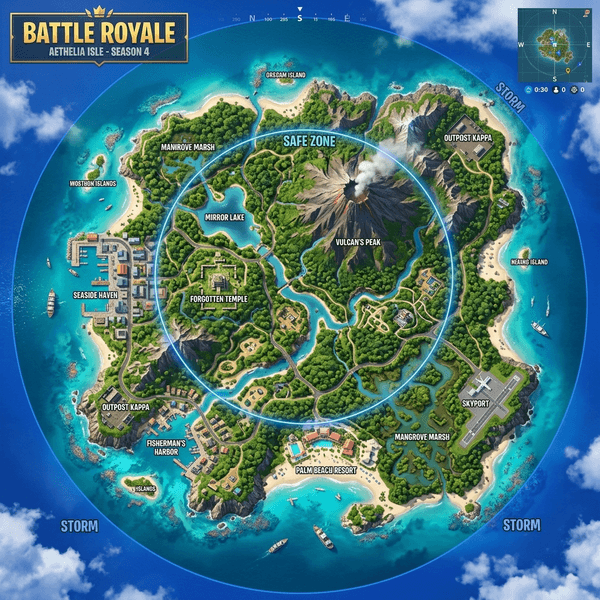
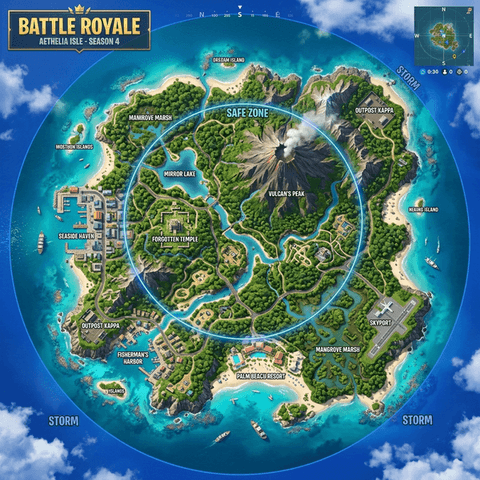
perf: Eliminate render-blocking Google Font import via next/font/google, add preconnect hints, and prioritize LCP image loading

diff --git a/src/app/globals.css b/src/app/globals.css
@@ -1,5 +1,3 @@
-@import url('https://fonts.googleapis.com/css2?family=Anton&display=swap');
-
 :root {
   --bg-cream: #FDFBF7;
   --bg-white: #FFFFFF;
@@ -237,7 +235,7 @@ body {
 }
 
 .font-anton { 
-  font-family: 'Anton', sans-serif; 
+  font-family: var(--font-anton), 'Anton', sans-serif; 
 }
 
 .home-wrapper {
@@ -277,7 +275,7 @@ body {
 }
 
 .hero-play {
-  font-family: 'Anton', sans-serif;
+  font-family: var(--font-anton), 'Anton', sans-serif;
   font-size: clamp(3rem, 5vw, 5.5rem);
   line-height: 0.9;
   color: #111111;
@@ -285,7 +283,7 @@ body {
 }
 
 .hero-compete {
-  font-family: 'Anton', sans-serif;
+  font-family: var(--font-anton), 'Anton', sans-serif;
   font-size: clamp(2.8rem, 4.5vw, 5rem);
   line-height: 0.9;
   color: #ff6a00;
@@ -293,7 +291,7 @@ body {
 }
 
 .hero-win {
-  font-family: 'Anton', sans-serif;
+  font-family: var(--font-anton), 'Anton', sans-serif;
   font-size: clamp(3rem, 5vw, 5.5rem);
   line-height: 0.9;
   color: #111111;
@@ -629,7 +627,7 @@ body {
 }
 
 .organizer-title {
-  font-family: 'Anton', sans-serif;
+  font-family: var(--font-anton), 'Anton', sans-serif;
   font-size: 2rem; /* Original large size for PC */
   color: #111;
   line-height: 1;

diff --git a/src/app/layout.js b/src/app/layout.js
@@ -1,8 +1,10 @@
-import { Inter } from 'next/font/google';
+import { Inter, Anton } from 'next/font/google';
 import './globals.css';
 import Navigation from '@/components/Navigation';
 
-const inter = Inter({ subsets: ['latin'] });
+const inter = Inter({ subsets: ['latin'], variable: '--font-inter' });
+const anton = Anton({ weight: '400', subsets: ['latin'], variable: '--font-anton', display: 'swap' });
+
 export const metadata = {
   title: 'FF Tournaments - Solo Battle',
   description: 'Premium Free Fire Tournament Booking',
@@ -11,7 +13,10 @@ export const metadata = {
 export default function RootLayout({ children }) {
   return (
     <html lang="en">
-      <body className={inter.className} style={{ background: 'var(--bg-cream)', color: 'var(--text-main)', minHeight: '100vh', display: 'flex', flexDirection: 'column' }}>
+      <head>
+        <link rel="preconnect" href="https://firestore.googleapis.com" />
+      </head>
+      <body className={`${inter.className} ${anton.variable}`} style={{ background: 'var(--bg-cream)', color: 'var(--text-main)', minHeight: '100vh', display: 'flex', flexDirection: 'column' }}>
         {/* Top Navigation Bar with Scroll Morphing */}
         <Navigation />
         

diff --git a/src/app/not-found.js b/src/app/not-found.js
@@ -28,7 +28,7 @@ export default function NotFound() {
         fontSize: '25vw',
         fontWeight: '900',
         color: 'rgba(255, 106, 0, 0.05)', /* Slightly visible orange on white */
-        fontFamily: "'Anton', sans-serif",
+        fontFamily: "var(--font-anton), 'Anton', sans-serif",
         whiteSpace: 'nowrap',
         pointerEvents: 'none',
         zIndex: 0
@@ -39,7 +39,7 @@ export default function NotFound() {
       <div style={{ zIndex: 10, display: 'flex', flexDirection: 'column', alignItems: 'center' }}>
         <h1 style={{
           fontSize: '5rem',
-          fontFamily: "'Anton', sans-serif",
+          fontFamily: "var(--font-anton), 'Anton', sans-serif",
           color: '#ff6a00',
           margin: '0 0 10px 0',
           textShadow: '0 4px 15px rgba(255, 106, 0, 0.2)', /* Soft shadow for white bg */
@@ -74,7 +74,7 @@ export default function NotFound() {
           color: 'white',
           padding: '16px 32px',
           borderRadius: '8px',
-          fontFamily: "'Anton', sans-serif",
+          fontFamily: "var(--font-anton), 'Anton', sans-serif",
           fontSize: '1.2rem',
           letterSpacing: '1px',
           textDecoration: 'none',

diff --git a/src/components/TournamentInfo.jsx b/src/components/TournamentInfo.jsx
@@ -102,7 +102,7 @@ export default function TournamentInfo({ activeMatch, joinedCount = 0 }) {
         <div style={{ position: 'relative', height: '140px', background: '#ccc' }}>
           <picture style={{ width: '100%', height: '100%' }}>
             <source srcSet="/bermuda.webp" type="image/webp" />
-            <img src="/bermuda.png" alt="Bermuda Classic" loading="lazy" style={{ width: '100%', height: '100%', objectFit: 'cover' }} />
+            <img src="/bermuda.png" alt="Bermuda Classic" fetchPriority="high" style={{ width: '100%', height: '100%', objectFit: 'cover' }} />
           </picture>
           <div style={{ position: 'absolute', bottom: 0, left: 0, right: 0, padding: '8px', background: 'linear-gradient(to top, rgba(0,0,0,0.8), transparent)' }}>
             <h3 style={{ margin: 0, color: '#fff', fontSize: '18px', fontWeight: '800' }}>MAP: BERMUDA CLASSIC</h3>